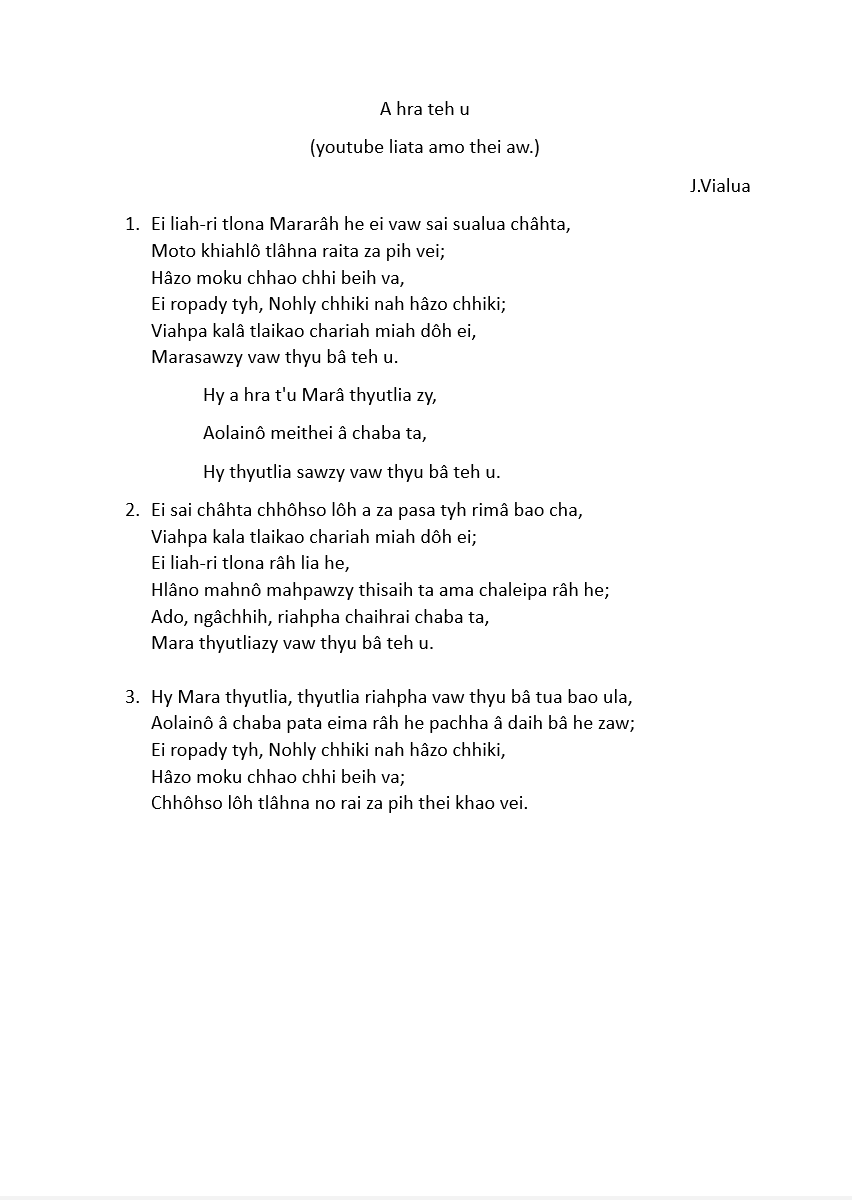
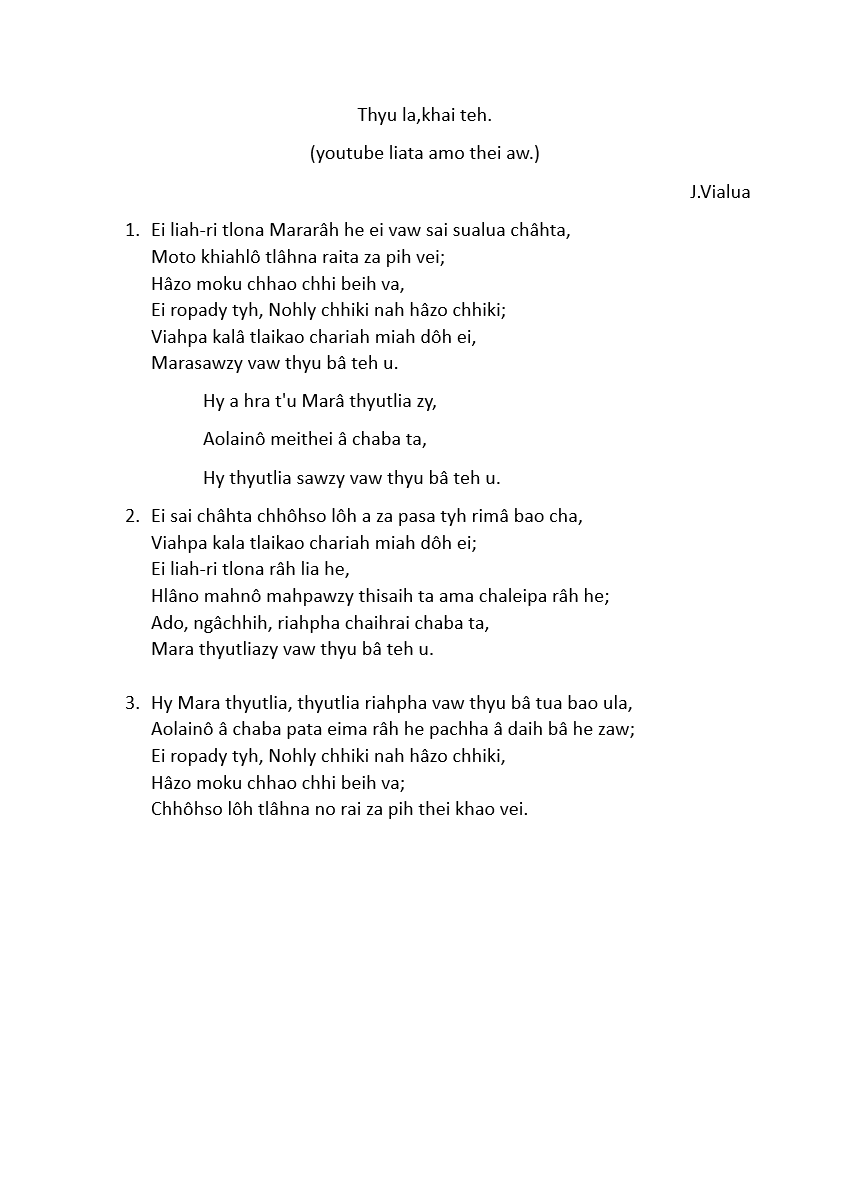
final

Changed region(s): [[0.1538, 0.185, 0.7385, 0.6783], [0.3692, 0.0925, 0.6462, 0.1542], [0.8308, 0.1542, 0.8923, 0.185]]

diff --git a/lib/content/chapter_block.dart b/lib/content/chapter_block.dart
@@ -12,7 +12,6 @@ const chapterBlock = {
   11: marareihliatapazaoawhpanatapazaoleiawhpazy,
   12: biepaveihpa,
   13: biesozy,
-  14: macharei,
 };
 
 const introduction = '''
@@ -20,13 +19,13 @@ const introduction = '''
 
          Mara reih a chuna App tao awpa heta kô 2022 March tawhta chyhsa thai viapa nata châbu a y theipa mai a saohiah pathao na ta, chyhsa ei saohiah viapa nata na bao chaituhpazy cha Puhpa Pachi Hlychho, Executive Secretary (RTD) nata Puhpa Thati Khithie (ei Personal advisor) zy ama châ. Châbu ei hmô theipa nata ei saohiah via chaipa cha Puhpa A. Zakia (L) ropa “Mara reih Grammar book 1 nata MADC ry liata achuna bu class 1 châbu” zy a châ. 
 
-	       Mara reih achuna App ei chhuanohna liata MSO Headquarters Siaha ta tlaw 10000/- na bao eita, ei ly hmeiseih. Audio taona liata a ao ngia ngâsâpa nata Mara reih reizie do ngâsâpa ta a na khôpatuhpa Ls. Ngovâ Hlychho, Meisavaih Siaha chô liata ei ly hmeiseih.
+	       Mara reih achuna App ei chhuanohna liata MSO Headquarters Siaha ta tlaw 10000/- na bao eita, ei ly hmeiseih. Audio taona liata a ao ngia ngâsâpa nata Mara reih reizie do kawpa ta na khôpatuhpa Ls. Ngovâ Hlychho, Meisavaih Siaha chô liata ei ly hmeiseih.
 
-        A châbu pasai kawpa ta hmâ na pasaituhpa Puhpa K. Mara hleikhôhta mohpakha ta na baotuhpa AZ Zesi nata H. Beichakaolai zy chô liata alynabie ei reih hmeiseih hra.
+        A châbu pasai kawpa ta hmâ na pasaituhpa Puhpa K. Mara hleikhôhta mohpakha ta na baotuhpa AZ Zese nata H. Beichakaolai zy chô liata alynabie ei reih hmeiseih hra.
 
-	       He App liana heta tao chheipa nata pado leipa, voice record aparo dâh asupia khai leipa a y thei aw. He chôchâh liata nama pasopakâhna nata padokheina angia aw na ta, tao chheipa nata pado khai leipa a ypa nama pahnopa zy cha kâchhie leipa ta nama vaw reih lymâ awpa ta khatino rai ta ei pahy thlâh ha.
+	       He App liana heta tao chheipa nata pado leipa, voice record aparo dâh asupia khai leipa hlupi a y thei ngyu aw. He chôchâh liana heta nama pasopakâhna nata padokheina angia aw na ta, tao chheipa nata pado khai leipa a ypa zy cha kâchhie leipa ta nama vaw reih lymâ awpa ta ei châ haw ei.
 
-	       He App hmâpa ta Mara reih dopa achupa maih hnohta khokheina cha hlâ ei na ta, Mara reih he cheichalo ta, pasâhsa lymâ awpa ta ei hmalana liata na baotuhpa nata hmala pazituhpa châ chyu awpa ta Mara saw khizaw râh to liata ypa zydua ei cha hrua ei.
+	       He App hmâpa ta Mara reih khopasata achupa maih hnohta khokheina cha hlâ ei na ta, Mara reih he cheichalo ta, pasâhsa lymâ awpa ta ei hmalana liata na baotuhpa nata hmala pazituhpa châ chyu awpa ta khizaw râh to liata Mara saw a ypa zydua ei cha hrua ei.
 
 Contact no.	 +918798044892
 FC. BEIRACHHUADY
@@ -61,9 +60,11 @@ Hawrawh chypa (small letters)
 const vowelsNataConsonants = '''                    
           CONSONANTS NATA VOWELS
 
-      Alphabet (Châhnawh) liata hawhrawh a ypazy cha py no ta pachhaihpa châ ta. Py khapa cha ano deita ta palei nata hmao papie kaw hlei leipa ta, yzie hneipa ta parosa theipa châ ei ta, chahawhpa hawhrawh cha "Vowels" tahpa ta bipa ama châ. Vowels cha hezy he ama châ:
+      Alphabet (Châhnawh) liata hawhrawh a ypazy cha py no ta pachhaihpa châ ta. Py khapa cha ano deita ta palei nata hmao papie kaw hlei leipa ta, yzie hneipa ta parosa theipa châ ei ta, chahawhpa hawhrawh cha "Vowels" tahpa ta bipa ama châ. 
+      
+      Vowels cha hezy he ama châ:
         
-        aw, y, e, i, 0, ô,
+        aw, y, e, i, o, ô,
       
       Alphabet(Châhnawh) liata hawhrawh py hropa heih cha "Consonants" tahpa ta bipa a châ. Consonant cha ano deita ta yzie a hneipa châ leipa ta, vowel nata pakaohpa ta parosa khohpa a châ. Chavâta, "Consonant" tahpa yzie cha 'paro pakaoh' tlyma, 'paro pabaoh’ tahna châ ta, Mara reih liata Consonant-zy cha – 
         
@@ -407,8 +408,8 @@ const tlosaihnatachapireihalyuleipazy = '''
       4.  y                        4. Au
       eg: chyhsa                    eg: chaufaw
 
-      5.  ua                       5. Ue
-      eg: kua                      eg: kue
+      5.  ua                       5. y
+      eg: kua                      eg: ky
 
           TLÔSAIH NATA CHAPI REIH ALYUPA ZY
 
@@ -634,7 +635,7 @@ Biepaveihpazy nata a reipasiana :
 
 4.A hnie a lai : Hmo taopa patlô leipa ta a bâhsai hapa reina.
 
-5.Alei moh po, avâ moh sâh : Hmo â ngiahpa la nawpa nata hmô nawpa rai y leipa, nôpo vâsâhna bie reina. Taozie pahno thai khao leipa nôpona bie reipa.
+5.Alei moh na po, avâ moh na â sâh : Hmo â ngiahpa la nawpa nata hmô nawpa rai y leipa, nôpo vâsâhna bie reina. Taozie pahno thai khao leipa nôpona bie reipa.
 
 6.Alaipa lai lao, aleipa lei lao : Hmo pha â tyhpa ta a tyh ngâthlâh ha ta, hmo chhie â tyhpa ta hmo chhiepa lilaw a tyh ngâthlâh hapa reina.
 
@@ -989,23 +990,23 @@ const biesozy = '''
                 Arohtuhpa : A Zakia 
   (Mara grammar “second edition”)
 
-      Bieso cha mohchho ypakhypa, bietlohpa châ ta. Reizie nata rozie hawhta a bie a chhuahna châ hra vei sala, a bie a chhuahpa cha a do ta. Pachuna a hneipa a châ. Khatino rai ta bie dopa ta â duah lymâ thei awpa bie cha "Bieso" tahpa a châ.
+      Bieso cha mohchho ypakhypa, bietlohpa châ ta. Reizie nata rozie hawhta a bie a chhuahna châ hra vei sala, a bie â chhuahpa cha â do ta. Pachuna a hneipa a châ. Khatino rai ta bie dopa ta â duah lymâ thei awpa bie cha "Bieso" tahpa a châ.
 
 Marapa Biesozy cha hezy he a châ.
 
     1.Awh saih chi saih chalâh, awh vyh chi vyh chalâh: Nôchâ hrozie nata ria-reih a chhiepa cha amâ pathla pachhuah laih lymâna tahpa pachuna bie a châ.
 
-    2.Seih râhpa ta seih râhpa pathla ta, sahrâpa ta sahrâhpa a pathla: Chyhsa phapa nata chyhsa machhyu-mahrâ a châpazy ama pathla liata ama vaw pua tyh thlyu na tahpa bie pachuna a châ.
+    2.Seih râhpa ta seih râhpa pathla ta, sahrâpa ta sahrâhpa a pathla: Chyhsa phapa nata chyhsa machhyu-mahrâ a châpazy cha ama pathla liata ama vaw pua thlyu tyh na tahpa bie pachuna a châ.
 
     3.Syhly a kao a pha khiahtala a hmô chhao a pha: Chyhsa pôhraoh phapa nata hmi phapa cha ama saw chhao chahawhta ama châ tahpa pachuna a châ.
 
     4.Sao vawh thai lei luh khu : Bie rei kathlâ a thai leipa cha âmo chhie n'awpa nata rao n'awpa ta na â reih thlâh ha tyh tahpa pachuna a châ.
 
-    5.Hmah a y leipa ta zachih ie thai vei: Âthaona nata a thabypa a y tua leipa ta a hnôh lâta chhiena tlô thai vei tahpa pachuna a châ.
+    5.Hmah a y leipa ta zâchieh ie thai vei: Âthaona nata a thabypa a y tua leipa ta a hnôh lâta chhiena tlô thai vei tahpa pachuna a châ.
 
     6.Lyurâh thokô reih leinô hmah â chamie na: Chyhsa liata dyhryhna y ngâthlâh thei vei tahpa pachuna a châ.
 
-    7.Noh nata thlaw hmah â tlei hai na : Adyhryhleina nata ahryusinazy y hra sala, a pachâ thai raihriepa ta adyhna ay pakhua (heih) theina tahpa pachuna a châ.
+    7.Noh nata thlaw hmah â tlei hai na : Adyhryhleina nata ahryusinazy y hra sala, â pachâ thai raihriepa ta adyhna a y pakhua (heih) theina tahpa pachuna a châ.
 
     8.No paw rei ângiah leipa cha lâ do tly veih ei : Nô paw bie a zyh leipa nata rei â ngiah leipazy ama hro lâthlôh a palâh thai leizie awpa nata ama châta hmo pha leipa a châ awpazie pachuna a châ.Nôpaw rei ângiah leipa cha lâ chavei a tlei” ama tah hra.
 
@@ -1018,47 +1019,6 @@ Marapa Biesozy cha hezy he a châ.
     12.Tilih cha a lâ lâta châ ta, a lâ cha a lih lâta a châ tyh: Hneirôhpa nata sipasapazy, dyhchhiepa nata dyhphapazy ama duahmo a thlathlâ tyhna tahpa pachuna a châ.
 
     13.Vânoh chhikao liata â duah : Viari thôna a chatliezie pachuna nata byhnâ tona kyh pachâpa ta a chado a byuhzie pachuna a châ.
-
-''';
-
-const macharei = '''
-
-Macha reih
-
-Khydi			-		 Satlia
-Dizuah			-		 Laisa
-Laiheihnô		-		Chanô sawsa chiehpa.
-Laiheihpaw		-		Chapaw sawsa chiehpa.
-Dyhnô Nô		-		vahpa âpyh haipa
-Dyhpaw		-		paw lapinô âpyh haipa.
-Meikiah			-		kho-iah
-Mothleih		-		Athihapa
-Pheiliaha		-		athihpa ri
-Lâpôh			-		Lâpi
-Vyhai			-		Luhua
-Sikhôh			-		Thâchhie
-Peirâh			-		Athihpa khih
-Rahmâ			-		mâ.
-Chhôsoh		-		Palôhrupa
-Chhaohlei		-		Alei.
-Meithâ			-		Ameih
-Bôzyu			-		Ahrohpa yna su
-Saliah			-		Saw.
-Nohlynô		-		Noh
-Lôhdu			-		Lôh khopa
-Rianai			-		Kyh eima pachâpa.
-Hiavâ			-		Vâhia
-Thângiahna		-		Vâ pasana.
-Lôhiah			-		Palôh-ypa.
-Lyuhbie			-		lôhkhopa bie.
-Châhdi			-		kô eima khosaihapa.
-Bydi			-		Lyuchâpa.
-Sihnôh			-		Hnôhlâ daiti.
-Vânohsahlâh		-		Byhnâ.
-Khôphei		- 		Rakhô
-Hiavâ			-		 khazoh
-Lôhiah			-		Palôruhpa
-Lyubie			-		Bie
 
 
 ''';

diff --git a/lib/screen/story_screen.dart b/lib/screen/story_screen.dart
@@ -2,7 +2,7 @@ import 'package:flutter/material.dart';
 import 'package:google_fonts/google_fonts.dart';
 import 'package:mara_rei_achuna1/story/phopa.dart';
 
-class StoryScreen extends StatelessWidget {
+class StoryScreen extends StatefulWidget {
   const StoryScreen({
     Key? key,
     required this.titleNumber,
@@ -11,8 +11,27 @@ class StoryScreen extends StatelessWidget {
   final int titleNumber;
 
   @override
+  _StoryScreenState createState() => _StoryScreenState();
+}
+
+class _StoryScreenState extends State<StoryScreen> {
+  int likeCount = 0;
+  bool isLiked = false;
+
+  void toggleLike() {
+    setState(() {
+      isLiked = !isLiked;
+      if (isLiked) {
+        likeCount++;
+      } else {
+        likeCount--;
+      }
+    });
+  }
+
+  @override
   Widget build(BuildContext context) {
-    final story = phopa[titleNumber] ?? '';
+    final story = phopa[widget.titleNumber] ?? '';
 
     return Scaffold(
       appBar: AppBar(),
@@ -25,8 +44,8 @@ class StoryScreen extends StatelessWidget {
               child: Column(
                 children: [
                   const SizedBox(
-                      height:
-                          18), // Add some spacing between icon and text content
+                    height: 18,
+                  ),
                   Text(
                     story,
                     style: GoogleFonts.libreBaskerville(
@@ -35,7 +54,7 @@ class StoryScreen extends StatelessWidget {
                         fontWeight: FontWeight.normal,
                       ),
                     ),
-                    textAlign: TextAlign.justify, // Add this line
+                    textAlign: TextAlign.justify,
                   ),
                 ],
               ),
@@ -44,16 +63,40 @@ class StoryScreen extends StatelessWidget {
         },
       ),
       floatingActionButton: FloatingActionButton(
-        onPressed: () {
-          Navigator.popUntil(context, (route) => route.isFirst);
-        },
-        child: const Icon(Icons.home),
+        onPressed: toggleLike,
+        child: Icon(
+          isLiked ? Icons.thumb_up : Icons.thumb_up_alt_outlined,
+        ),
       ),
       floatingActionButtonLocation: FloatingActionButtonLocation.centerDocked,
       bottomNavigationBar: BottomAppBar(
         shape: const CircularNotchedRectangle(),
         child: Container(
           height: 50.0,
+          padding: EdgeInsets.symmetric(horizontal: 16),
+          child: Row(
+            mainAxisAlignment:
+                MainAxisAlignment.spaceBetween, // Adjust alignment
+            children: [
+              Row(
+                children: [
+                  Icon(
+                    Icons.thumb_up,
+                    size: 15,
+                  ),
+                  SizedBox(width: 8), // Add spacing between icon and text
+                  Text(
+                    'Likes: ${likeCount}',
+                    style: TextStyle(
+                      fontSize: 16,
+                      fontWeight: FontWeight.bold,
+                    ),
+                  ),
+                ],
+              ),
+              // You can add other widgets here if needed
+            ],
+          ),
         ),
       ),
     );

diff --git a/lib/story/phopa.dart b/lib/story/phopa.dart
@@ -126,7 +126,7 @@ const sawnahmohchho = '''
 
 const maraphohpa = '''
                 MARA PHÔHPA 
-                AZUAPA CHI
+                    AZUAPA CHI
 
 Hlâno Mara sawzy alai a chyh, hawti machâ, achanô chapaw ta eima yru châh ta nata daihti ruapa lia mainta lathli pachâna a kawh nata kawh lei, eima sona nata so lei pahno nawpa ta khâ ama vaw hiahri tyhpa, atanoh sawtliapa chhâ liata eima my lei nawpa alâhâh viapazy ei vaw palâsa. Hlâno Mara sawzy IQ a pha nata pha lei he tawhna heta na pahno thei aw.
 
@@ -280,8 +280,8 @@ Phôhpatlô liah patlô, sakyh ta patlai-patlô nôhmeinô awhta chhih tai saopa
 ''';
 
 const papangawhlyurie = '''
-              PAPANGAWH LYURIE ATLAPA 
-                         PHÔH
+              PAPANGAWH LYURIE 
+                    ATLAPA PHÔH
 
         Hlâno he sa chinanopa sai papangawh ta lyurie tla ei ta chazycha:- Vaothawpa, Siahrâ, Sahawh, Vachakiekahnah nahta Azyh zy he ama châ.
 

diff --git a/lib/screen/donation_screen.dart b/lib/screen/donation_screen.dart
@@ -7,7 +7,7 @@ class DonationScreen extends StatelessWidget {
   @override
   Widget build(BuildContext context) {
     const String thuhmahruai = '''
-        Mara reih achuna App  hmá theipa ta a y nawpa heta sôh peimawh ngâsâ miakha a châ. 
+        Mara reih achuna App  hmâ theipa ta a y n’awpa heta sôh he peimawh ngâsâpa miakha a châ. 
 
         Mo pakha khopasana ta taopa a chápa vâta sôh hnawh y leipa ta, App siepahliepa ta sôh hmôpa chhao he hmo rairu kawpa a châ hra. 
 
@@ -15,11 +15,13 @@ class DonationScreen extends StatelessWidget {
 
         Donation a tlopakhypa tawhta content chhao update lymâpa a châ aw. 
 
-        Na reih cheichalo nawpa ta na pasaina rakha lymâ hawhta vaw thyu hra mah y.
+        Na reih cheichalo nawpa ta na pasaina rakha lymâ hawhta vaw thyu hra mah y.
 
 Bank Account No. : 20286547989
 IFSC : SBIN0005822
 UPI : 8798044892@paytm 
+
+
 
     ''';
 

diff --git a/lib/song/song_lyrics.dart b/lib/song/song_lyrics.dart
@@ -18,10 +18,11 @@ const songLyrics = {
   17: awkhy,
   18: awkhypa,
   19: awkhypahla,
-  20: aolaino,
+  20: thyula,
   21: molah,
   22: heheeima,
   23: laina,
+  24: aolaino,
 };
 
 const azipa = '''
@@ -85,7 +86,7 @@ const awkhypa = '''
 const awkhypahla = '''
 
 ''';
-const aolaino = '''
+const thyula = '''
 
 ''';
 const molah = '''
@@ -98,5 +99,9 @@ const laina = '''
 
 ''';
 const eipina = '''
+
+''';
+
+const aolaino = '''
 
 ''';

diff --git a/lib/song/title_list.dart b/lib/song/title_list.dart
@@ -18,10 +18,10 @@ const titleList = [
   '17. Awkhyhla 1',
   '18. Awkhyhla 2',
   '19. Awkhyhla 3',
-  '20. Aolainô',
+  '20. Thyu la, khai teh.',
   '21. Molâh khydi',
   '22. He he eima râh',
   '23. Laihna rahpha',
   '24. Ei vaw pihna maraland',
-  '25.'
+  '25. Aolainô'
 ];

diff --git a/lib/song/song_image.dart b/lib/song/song_image.dart
@@ -22,5 +22,6 @@ const songImage = {
   21: 'assets/image/91.png',
   22: 'assets/image/92.png',
   23: 'assets/image/93.png',
-  24: 'assets/image/94.png'
+  24: 'assets/image/94.png',
+  25: 'assets/image/95.png'
 };

diff --git a/lib/content/audio_block.dart b/lib/content/audio_block.dart
@@ -12,5 +12,4 @@ const audioBlock = {
   11: 'assets/audio/sonatikhao.mp3',
   12: 'assets/audio/sonatikhao.mp3',
   13: 'assets/audio/sonatikhao.mp3',
-  14: 'assets/audio/sonatikhao.mp3',
 };

diff --git a/lib/content/topic_list.dart b/lib/content/topic_list.dart
@@ -12,5 +12,4 @@ const topicList = [
   '11. Mara reih liata pazao awhpa nata pazao lei awhpa zy',
   '12. Biepaveihpa/ Reih machâpa',
   '13. Mara Biesozy',
-  '14. Machâ reih',
 ];
